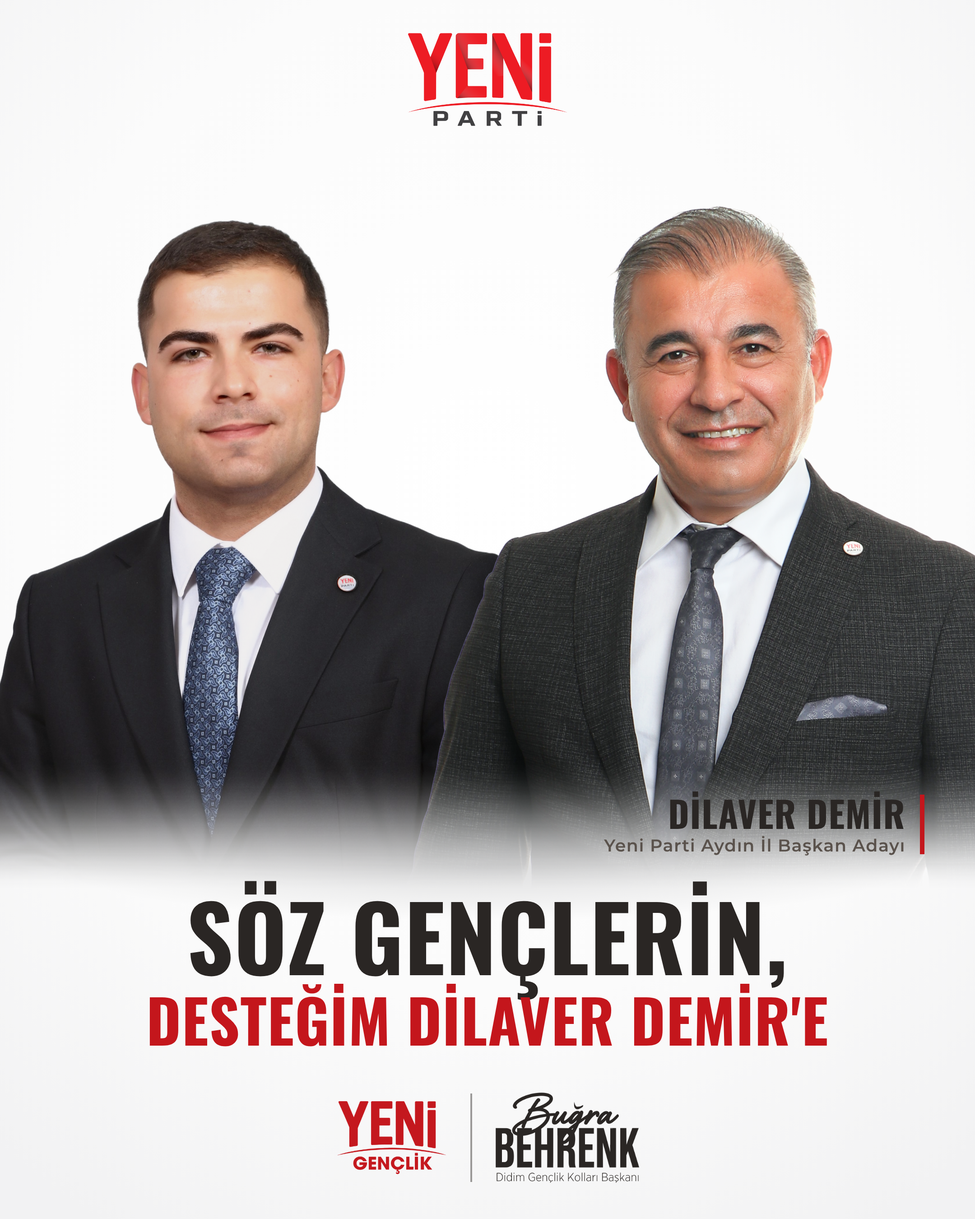
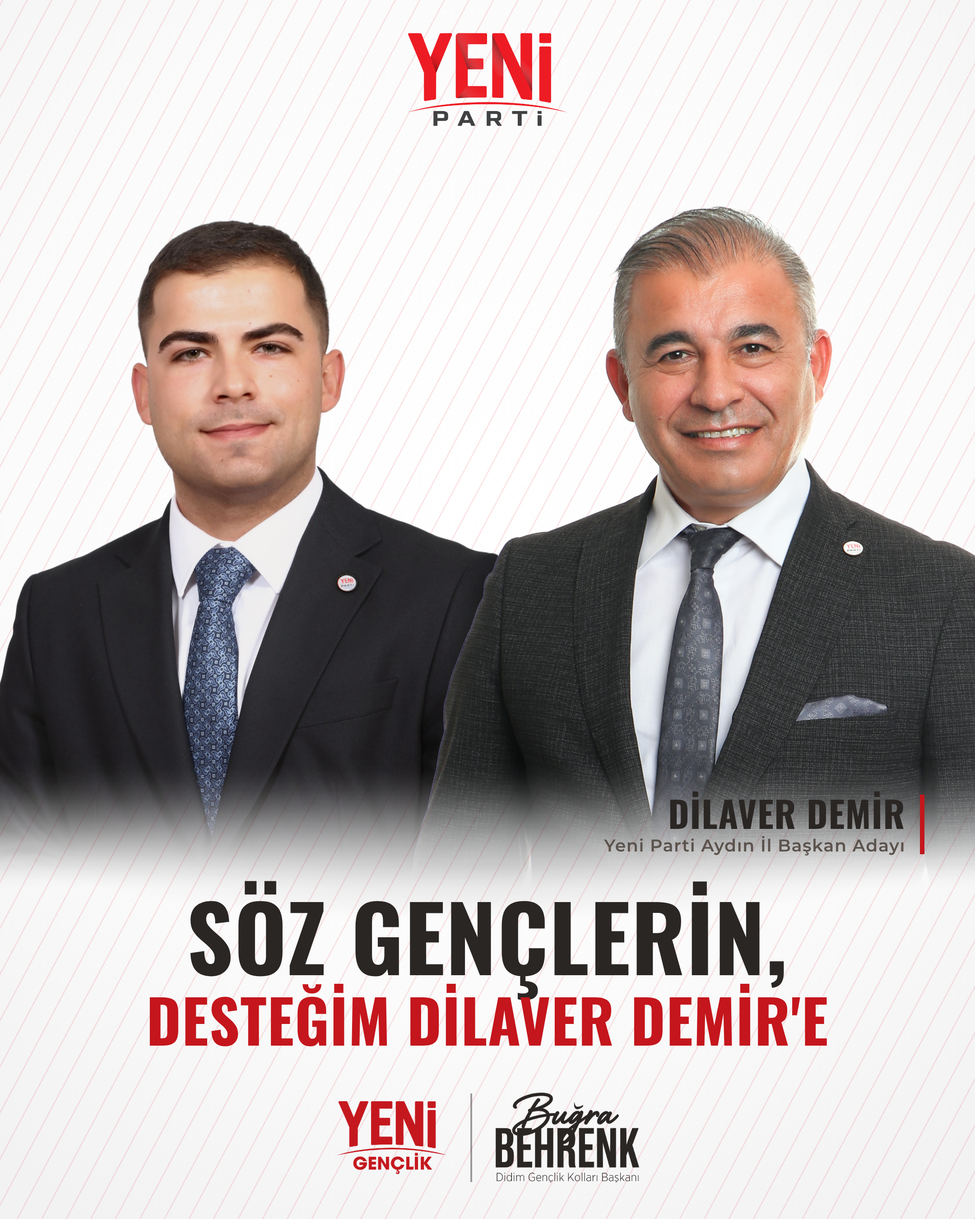
Destek afişi: beyaz zemine ince kırmızı çapraz çizgiler
Claude-Session: https://claude.ai/code/session_01SatttGbgBLoCnk9KGLypWv

diff --git a/tasarim/kisisel/destek/destek.html b/tasarim/kisisel/destek/destek.html
@@ -22,10 +22,12 @@ body{position:relative;background:radial-gradient(ellipse 80% 70% at 50% 40%,#FF
 .imza .ayrac{width:2px;height:98px;background:rgba(42,38,36,.45)}
 .imza .isim{height:100px}
 .doku.ust{opacity:.18}
+.cizgiler{position:absolute;inset:0;background:repeating-linear-gradient(-62deg,rgba(227,10,23,.10) 0 1.5px,transparent 1.5px 24px)}
 </style>
 <body>
 <svg class="doku" width="1080" height="1350"><filter id="n"><feTurbulence type="fractalNoise" baseFrequency=".9" numOctaves="3" seed="4"/><feColorMatrix type="matrix" values="0 0 0 0 .55  0 0 0 0 .48  0 0 0 0 .40  0 0 0 .55 0"/></filter><rect width="1080" height="1350" filter="url(#n)"/></svg>
 <svg class="lekeler" width="1080" height="1350"><filter id="m"><feTurbulence type="fractalNoise" baseFrequency=".006" numOctaves="4" seed="9"/><feColorMatrix type="matrix" values="0 0 0 0 .62  0 0 0 0 .55  0 0 0 0 .45  0 0 0 1.3 -.55"/></filter><rect width="1080" height="1350" filter="url(#m)"/></svg>
+<div class="cizgiler"></div>
 <img class="logo" src="yp-logo-renkli.png">
 <div class="zemin-golge"></div>
 <img class="kisiler" src="kisiler.png">
